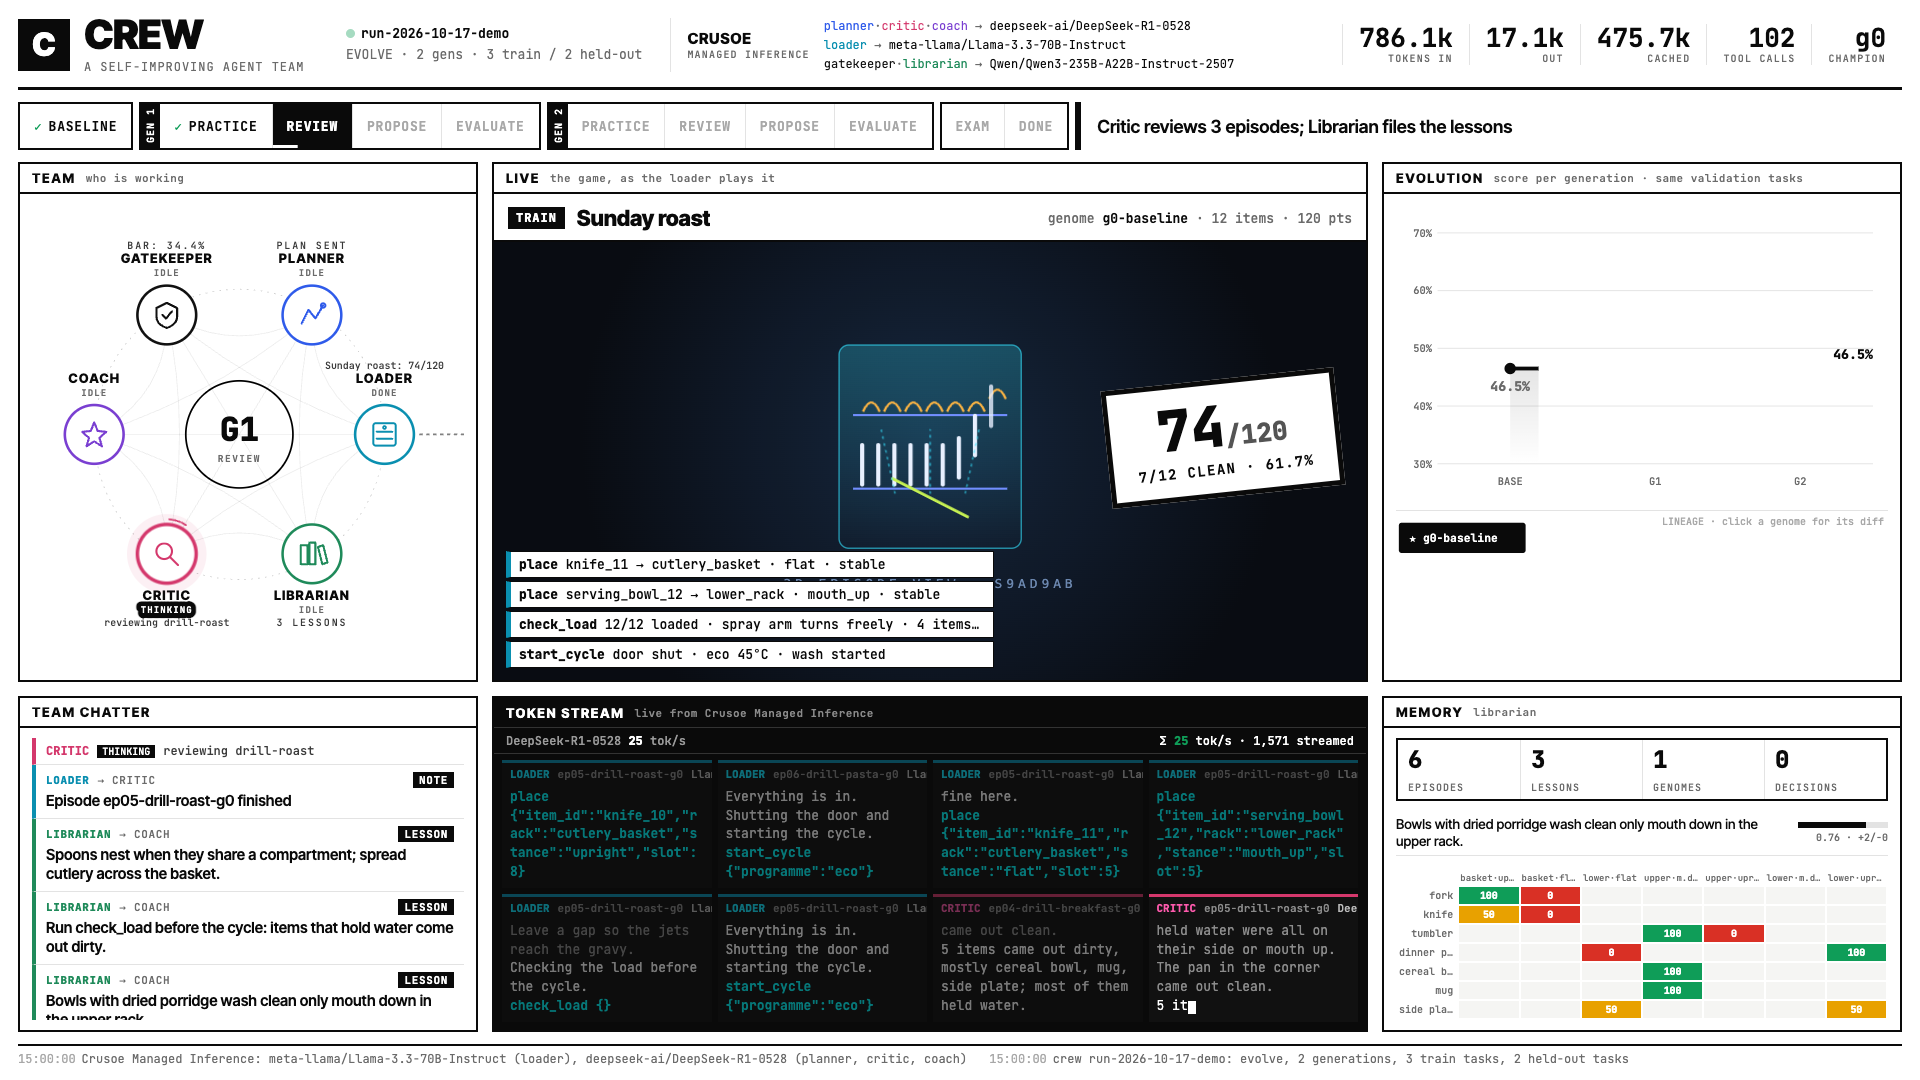
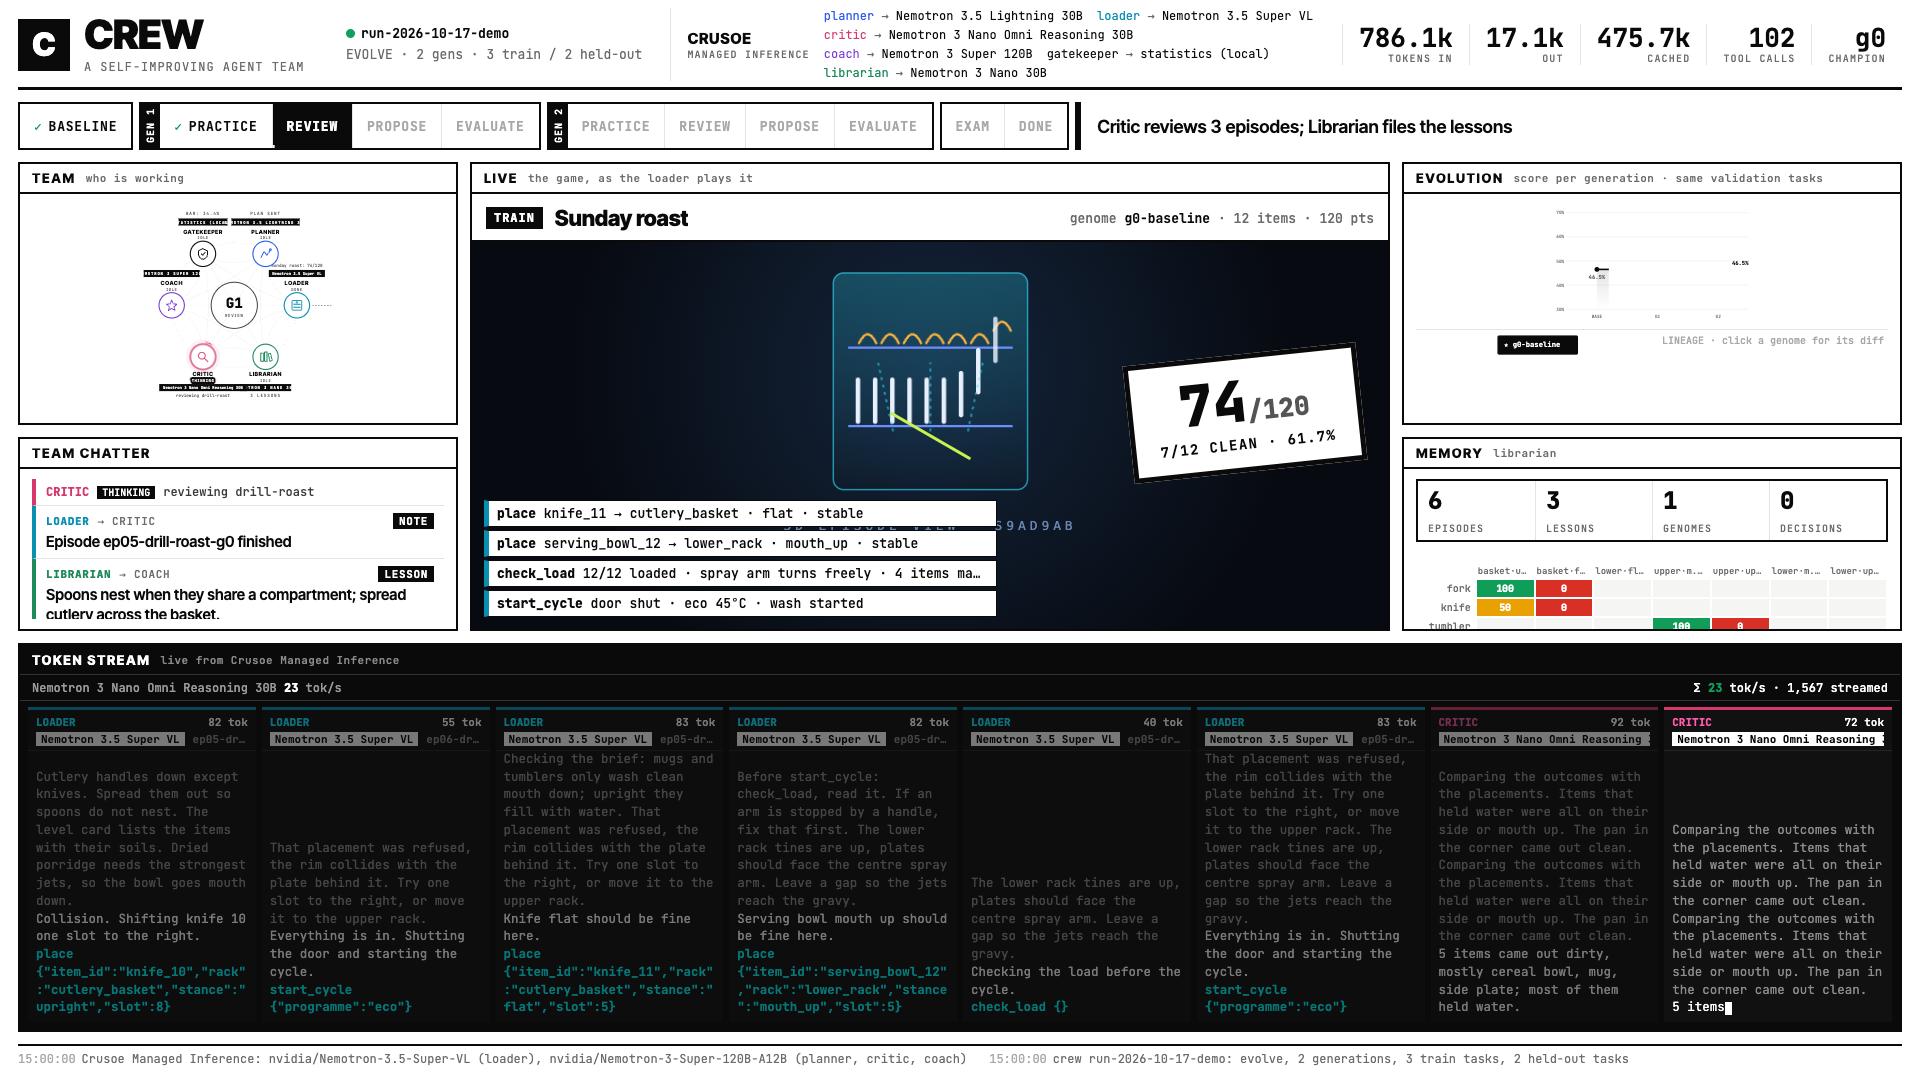
studio: full-width token row, Nemotron model chips, team list, cropped game heading, 1512x805 layout

diff --git a/studio/src/style.css b/studio/src/style.css
@@ -63,18 +63,32 @@ html, body { margin: 0; height: 100%; background: var(--paper); color: var(--ink
 .pdetail { flex: 1; display: flex; align-items: center; padding: 0 16px; font: 600 18px var(--sans); min-width: 0; overflow: hidden; white-space: nowrap; text-overflow: ellipsis; border-left: 6px solid var(--ink); }
 
 /* main grid */
-main { display: grid; grid-template-columns: 460px minmax(0, 1fr) 520px; grid-template-rows: 520px minmax(0, 1fr); gap: 14px; min-height: 0; }
+main { display: grid; grid-template-columns: 440px minmax(0, 1fr) 500px; grid-template-rows: minmax(0, 1.35fr) minmax(0, 1fr) 36vh; gap: 12px; min-height: 0; }
 #team { grid-column: 1; grid-row: 1; }
 #chatter { grid-column: 1; grid-row: 2; }
-#live { grid-column: 2; grid-row: 1; }
-#tokens { grid-column: 2; grid-row: 2; }
+#live { grid-column: 2; grid-row: 1 / 3; }
 #evo { grid-column: 3; grid-row: 1; }
 #memory { grid-column: 3; grid-row: 2; }
+#tokens { grid-column: 1 / -1; grid-row: 3; }
 .panel { position: relative; background: var(--paper); border: 2px solid var(--ink); padding: 40px 12px 10px; min-height: 0; overflow: hidden; }
 .panel h2 { position: absolute; top: 0; left: 0; right: 0; height: 30px; margin: 0; padding: 0 12px; display: flex; align-items: center; gap: 10px; font: 800 13px var(--sans); letter-spacing: .12em; text-transform: uppercase; border-bottom: 2px solid var(--ink); white-space: nowrap; overflow: hidden; }
 .panel h2 em { font-style: normal; color: var(--dim); font: 500 11px var(--mono); letter-spacing: .04em; text-transform: none; }
 
-/* graph */
+/* graph (tall screens) or list (short screens) */
+#team { display: flex; flex-direction: column; }
+.teamlist { display: flex; flex-direction: column; overflow: hidden; flex: 1; min-height: 0; justify-content: space-evenly; }
+#graph { display: none !important; }
+.tr { flex: none; display: grid; grid-template-columns: 104px 74px minmax(0, max-content) minmax(0, 1fr); gap: 10px; align-items: center; padding: 6px 8px; font-size: 13px !important; border-left: 4px solid var(--c); border-bottom: 1px solid var(--hair); font: 500 11px var(--mono); }
+.tr b { color: var(--c); text-transform: uppercase; font-weight: 800; }
+.tr .st { color: var(--dim); text-transform: uppercase; font-size: 10px; }
+.tr.s-thinking .st, .tr.s-acting .st { background: var(--ink); color: #fff; padding: 0 4px; justify-self: start; }
+.tr i { font-style: normal; background: var(--ink); color: #fff; padding: 1px 6px; font-weight: 700; white-space: nowrap; overflow: hidden; text-overflow: ellipsis; }
+.tr.s-thinking, .tr.s-acting { background: color-mix(in srgb, var(--c) 8%, #fff); }
+.tr.s-thinking b::after, .tr.s-acting b::after { content: ' ●'; animation: blink 1s infinite; }
+.tr em { font-style: normal; color: var(--ink2); white-space: nowrap; overflow: hidden; text-overflow: ellipsis; }
+#evo { display: flex; flex-direction: column; }
+#evo #chart { flex: 1 1 0; min-height: 0; height: 0; }
+#evo #lineage { flex: none; }
 #graph { width: 100%; height: 100%; display: block; }
 .edge { stroke: #000; stroke-opacity: .07; stroke-width: 1; fill: none; }
 .edge.hot { stroke-opacity: 1; stroke-width: 2.5; }
@@ -92,6 +106,8 @@ main { display: grid; grid-template-columns: 460px minmax(0, 1fr) 520px; grid-te
 .node-status { font: 600 10.5px var(--mono); fill: var(--dim); text-transform: uppercase; letter-spacing: .12em; }
 .node.thinking .node-status, .node.acting .node-status { fill: var(--paper); paint-order: stroke; stroke: var(--ink); stroke-width: 12px; stroke-linejoin: round; }
 .node-label { font: 500 11.5px var(--mono); fill: var(--ink2); }
+.model-chip { fill: var(--ink); }
+.node-model { font: 700 10.5px var(--mono); fill: #fff; }
 .core-gen { font: 800 38px var(--mono); fill: var(--ink); }
 .core-sub { font: 600 11px var(--mono); fill: var(--dim); letter-spacing: .16em; text-transform: uppercase; }
 
@@ -161,19 +177,17 @@ main { display: grid; grid-template-columns: 460px minmax(0, 1fr) 520px; grid-te
 .meter .tot { margin-left: auto; color: #fff; }
 .meter .tot b { color: var(--good); }
 .waterfall { position: relative; height: 100%; }
-.lanes { display: grid; gap: 6px; height: 100%; grid-template-columns: 1fr; grid-auto-rows: minmax(0, 1fr); }
-.lanes[data-n='2'] { grid-template-columns: 1fr 1fr; }
-.lanes[data-n='4'] { grid-template-columns: 1fr 1fr; grid-template-rows: 1fr 1fr; }
-.lanes[data-n='6'] { grid-template-columns: 1fr 1fr 1fr; grid-template-rows: 1fr 1fr; }
-.lanes[data-n='8'] { grid-template-columns: repeat(4, 1fr); grid-template-rows: 1fr 1fr; }
+.lanes { display: grid; gap: 6px; height: 100%; grid-template-columns: 1fr; grid-template-rows: minmax(0, 1fr); }
 .lane { display: flex; flex-direction: column; min-height: 0; min-width: 0; border-top: 3px solid var(--rc); background: #111; transition: opacity .6s; }
 .lane.done { opacity: .45; }
-.lh { display: flex; gap: 8px; align-items: baseline; padding: 4px 8px; font: 500 11px var(--mono); color: #8a8a8a; white-space: nowrap; overflow: hidden; flex: none; }
+.lh { padding: 5px 8px 4px; font: 500 11px var(--mono); color: #8a8a8a; white-space: nowrap; overflow: hidden; flex: none; border-bottom: 1px solid #262626; }
+.lh div { display: flex; gap: 8px; align-items: baseline; overflow: hidden; }
+.lh div + div { margin-top: 3px; }
 .lh b { color: var(--rc); text-transform: uppercase; font-weight: 800; filter: brightness(1.6); }
-.lh i { font-style: normal; color: #bbb; }
+.lh i { font-style: normal; color: #000; background: #fff; padding: 0 5px; font-weight: 700; }
+.lh span { overflow: hidden; text-overflow: ellipsis; }
 .lh em { font-style: normal; margin-left: auto; color: #fff; }
-.lb { flex: 1; min-height: 0; overflow: hidden; display: flex; flex-direction: column; justify-content: flex-end; padding: 0 8px 6px; font: 13px/1.45 var(--mono); white-space: pre-wrap; word-break: break-word; }
-.lanes[data-n='1'] .lb, .lanes[data-n='2'] .lb { font-size: 15px; }
+.lb { flex: 1; min-height: 0; overflow: hidden; display: flex; flex-direction: column; justify-content: flex-end; padding: 4px 8px 6px; font: 12.5px/1.42 var(--mono); white-space: pre-wrap; word-break: break-word; }
 .c-reasoning { color: #8c8c8c; }
 .c-content { color: #ffffff; }
 .c-tool_args { color: var(--rc); filter: brightness(1.7) saturate(1.2); font-weight: 700; }
@@ -189,7 +203,7 @@ main { display: grid; grid-template-columns: 460px minmax(0, 1fr) 520px; grid-te
 .cand { stroke-width: 3; }
 .cand-t { font: 600 12.5px var(--sans); fill: var(--ink); }
 .delta-t { font: 800 14px var(--mono); }
-#lineage { margin-top: 6px; height: 138px; position: relative; border-top: 1px solid var(--hair); }
+#lineage { margin-top: 6px; height: 84px; position: relative; border-top: 1px solid var(--hair); }
 #lineage svg { width: 100%; height: 100%; }
 .gnode { cursor: pointer; }
 .gnode rect { fill: #fff; stroke-width: 2; }
@@ -265,8 +279,30 @@ main { display: grid; grid-template-columns: 460px minmax(0, 1fr) 520px; grid-te
 @keyframes slidein { from { opacity: 0; transform: translateY(6px); } }
 @keyframes stamp { from { opacity: 0; transform: translateY(-50%) rotate(-6deg) scale(2.2); } }
 
+@media (max-height: 900px) {
+  #app { grid-template-rows: 56px 34px 1fr 0; gap: 8px; padding: 8px 12px 6px; }
+  #console { display: none; }
+  #top { padding-bottom: 8px; border-bottom-width: 2px; }
+  .logo { width: 40px; height: 40px; font-size: 24px; }
+  .title { font-size: 28px; }
+  .counter .v { font-size: 18px; }
+  .pdetail { font-size: 14px; }
+  main { gap: 8px; grid-template-rows: minmax(0, 1.25fr) minmax(0, 1fr) 36vh; }
+  .panel { padding-top: 32px; }
+  .panel h2 { height: 24px; font-size: 11px; }
+  #stage { top: 26px; }
+  .term { padding-top: 50px; }
+  .meter { top: 24px; height: 22px; font-size: 11px; }
+  .ov-top { height: 36px; } .ov-top .task { font-size: 17px; }
+  .msg { padding: 4px 8px; } .msg details summary { font-size: 13px; }
+  .lesson { padding: 3px 0; }
+  .mcount b { font-size: 18px; }
+  #lineage { height: 64px; }
+  .tr { grid-template-columns: 88px 62px minmax(0, max-content) minmax(0, 1fr); padding: 3px 6px; font-size: 11px !important; gap: 6px; }
+  .lin-hint { display: none; }
+}
 @media (max-width: 1600px) {
-  main { grid-template-columns: 390px minmax(0, 1fr) 440px; grid-template-rows: 440px minmax(0, 1fr); }
+  main { grid-template-columns: 340px minmax(0, 1fr) 400px; }
   .counter { padding: 0 10px; } .counter .v { font-size: 20px; }
   .step { padding: 0 8px; font-size: 11px; }
   .title { font-size: 30px; } .brand { min-width: 220px; }
@@ -278,5 +314,5 @@ main { display: grid; grid-template-columns: 460px minmax(0, 1fr) 520px; grid-te
   .heat td { height: 12px; font-size: 9px; }
   .lesson { font-size: 12px; }
   .exam .big { font-size: 150px; }
-  .lanes[data-n='8'] .lb { font-size: 11px; }
+  .lb { font-size: 11.5px; }
 }

diff --git a/studio/src/main.ts b/studio/src/main.ts
@@ -5,6 +5,7 @@ import { diffGenomes, wordDiff } from './diff.ts';
 import { championId, evolution, initialState, lineage, liveEpisodes, reduce, ROLE_LIST, type EpisodeView, type MessageView, type StudioState } from './state.ts';
 import { startSource } from './source.ts';
 import { tokenPanel } from './tokens.ts';
+import { modelName } from './models.ts';
 
 const $ = <T extends Element = HTMLElement>(sel: string): T => document.querySelector(sel) as T;
 const esc = (s: string): string => s.replace(/[&<>"]/g, (c) => ({ '&': '&amp;', '<': '&lt;', '>': '&gt;', '"': '&quot;' })[c]!);
@@ -65,7 +66,7 @@ function renderHeader(s: StudioState): void {
     byModel.set(m, [...(byModel.get(m) ?? []), r]);
   }
   $('#inference').innerHTML = `<div class="crusoe">CRUSOE<small>MANAGED INFERENCE</small></div><div class="models">${[...byModel]
-    .map(([m, rs]) => `<span>${rs.map((r) => `<i style="color:${COLOR[r]}">${r}</i>`).join('<i>·</i>')} <i>→</i> ${esc(m)}</span>`)
+    .map(([m, rs]) => `<span>${rs.map((r) => `<i style="color:${COLOR[r]}">${r}</i>`).join('<i>·</i>')} <i>→</i> ${esc(modelName(m))}</span>`)
     .join('')}</div>`;
   const t = s.tokens;
   const champ = championId(s);
@@ -152,14 +153,17 @@ function buildGraph(): void {
     const g = document.createElementNS(SVG, 'g');
     g.setAttribute('class', 'node idle');
     const below = y > CY + 10;
-    const ly = below ? 54 : -60;
+    const ly = below ? 52 : -54;
+    const my = below ? y + 84 : y - 84;
     g.innerHTML = `<circle class="halo" cx="${x}" cy="${y}" r="46" fill="${HEX[r]}" opacity="0"/>
       <circle class="node-ring" cx="${x}" cy="${y}" r="34" stroke="${HEX[r]}"/>
       <circle class="spinner" cx="${x}" cy="${y}" r="40" fill="none" stroke="${HEX[r]}" stroke-width="2" stroke-dasharray="20 230" stroke-linecap="round"/>
       ${icon(r, x, y)}
       <text class="node-name" x="${x}" y="${y + ly}" text-anchor="middle">${r}</text>
       <text class="node-status" x="${x}" y="${y + ly + 15}" text-anchor="middle">idle</text>
-      <text class="node-label" x="${x}" y="${y + ly + (below ? 30 : -16)}" text-anchor="middle"></text>`;
+      <text class="node-label" x="${x}" y="${below ? y + 108 : y - 104}" text-anchor="middle"></text>
+      <rect class="model-chip" x="${x}" y="${my - 11}" width="0" height="19" data-cx="${x}"/>
+      <text class="node-model" x="${x}" y="${my + 3}" text-anchor="middle"></text>`;
     ng.appendChild(g);
     nodeEls.set(r, g);
   }
@@ -188,7 +192,23 @@ function renderGraph(s: StudioState): void {
     texts[1]!.textContent = a.status;
     const lbl = a.label.length > 34 ? `${a.label.slice(0, 33)}…` : a.label;
     texts[2]!.textContent = lbl;
+    // The model under the role (from run_started), as a black chip.
+    const mn = modelName(s.run?.models[r]);
+    if (texts[3]!.textContent !== mn) {
+      texts[3]!.textContent = mn;
+      const w = mn ? mn.length * 6.5 + 14 : 0;
+      const rect = g.querySelector<SVGRectElement>('.model-chip')!;
+      rect.setAttribute('width', String(w));
+      rect.setAttribute('x', String(Number(rect.dataset['cx']) - w / 2));
+    }
   }
+  // The compact team list (shown instead of the ring on short screens).
+  const tl = ROLE_LIST.map((r) => {
+    const a = s.agents[r];
+    return `<div class="tr s-${a.status}" style="--c:${COLOR[r]}"><b>${r}</b><span class="st">${a.status}</span><i>${esc(modelName(s.run?.models[r]))}</i><em>${esc(a.label)}</em></div>`;
+  }).join('');
+  const tle = $('#teamlist');
+  if (tle.innerHTML !== tl) tle.innerHTML = tl;
   const ph = s.phase;
   $('#core-gen').textContent = ph ? (ph.phase === 'exam' || ph.phase === 'done' ? (ph.phase === 'exam' ? 'EXAM' : 'DONE') : `G${ph.generation}`) : 'G0';
   $('#core-sub').textContent = ph ? ph.phase : 'waiting';
@@ -312,8 +332,10 @@ function renderLive(s: StudioState): void {
     c.el.className = `card ${big ? 'big' : 'small'} ${!big && e.finishedAt ? 'leaving' : ''} ${loading ? 'loading' : ''}`;
     // The page renders at the big size (below the card's header strip); thumbnails are scaled down copies.
     const scale = rect.w / W;
-    const HDR = 46;
-    Object.assign(c.frame.style, { width: `${W}px`, height: `${bigH - HDR}px`, top: big ? `${HDR}px` : '0px', transform: `scale(${scale})` });
+    const HDR = innerHeight <= 900 ? 36 : 46;
+    // The game page draws its own heading at the top; the card's strip shows the title, so that band is cropped off.
+    const CROP = 80;
+    Object.assign(c.frame.style, { width: `${W}px`, height: `${bigH - HDR + CROP}px`, top: big ? `${HDR - CROP}px` : `${-CROP * scale}px`, transform: `scale(${scale})` });
     const sig = `${big}|${e.stream.length}|${e.finishedAt}|${e.wash}`;
     if (sig !== c.sig) {
       c.sig = sig;
@@ -379,10 +401,14 @@ const short = (a: unknown): string => {
 let evoSig = '';
 function renderEvolution(s: StudioState): void {
   const pts = evolution(s);
-  const sig = JSON.stringify(pts) + Object.keys(s.genomes).length + Object.values(s.genomes).map((g) => g.status).join();
+  const cb = $('#chart').getBoundingClientRect();
+  const sig = `${Math.round(cb.width)}x${Math.round(cb.height)}` + JSON.stringify(pts) + Object.keys(s.genomes).length + Object.values(s.genomes).map((g) => g.status).join();
   if (sig === evoSig) return;
   evoSig = sig;
-  const W = 520, H = 300, L = 44, Rr = 16, T = 22, B = 34;
+  // Drawn at the element's own pixel size, so the type stays readable however small the panel is.
+  const box = $('#chart').getBoundingClientRect();
+  const W = Math.max(320, Math.round(box.width)), H = Math.max(140, Math.round(box.height)), L = 44, Rr = 16, T = 22, B = 30;
+  $('#chart').setAttribute('viewBox', `0 0 ${W} ${H}`);
   const vals = pts.flatMap((p) => [p.champion, p.candidate ?? p.champion]);
   const lo = Math.max(0, Math.floor((Math.min(...vals, 0.5) - 0.1) * 10) / 10);
   const hi = Math.min(1, Math.ceil((Math.max(...vals, 0.6) + 0.08) * 10) / 10);

diff --git a/studio/scripts/fake-events.ts b/studio/scripts/fake-events.ts
@@ -78,8 +78,8 @@ const RACK_OF: Record<string, readonly [string, string, string]> = {
   ladle: ['cutlery_basket', 'upright', 'flat'],
 };
 
-const MODEL_LOADER = 'meta-llama/Llama-3.3-70B-Instruct';
-const MODEL_THINK = 'deepseek-ai/DeepSeek-R1-0528';
+const MODEL_LOADER = 'nvidia/Nemotron-3.5-Super-VL';
+const MODEL_THINK = 'nvidia/Nemotron-3-Super-120B-A12B';
 const MODEL_FAST = 'Qwen/Qwen3-235B-A22B-Instruct-2507';
 
 function rng(seed: number): () => number {
@@ -190,6 +190,7 @@ export function fakeRun(opts: FakeRunOptions = {}): CrewEvent[] {
     }
     if (genome.team.useMemoryBrief) {
       status(t, 'librarian', 'acting', `brief for ${task.title}`, key);
+      emit(t + 0.55, { type: 'model_turn', episodeKey: key, role: 'librarian', text: `Brief for ${task.title}: the lessons that match its kinds and soils.`, toolCalls: [], tokensIn: 1800, tokensOut: 220, ms: 1500 });
       msg(t + 0.6, 'librarian', 'loader', 'brief', `Memory brief: ${task.title}`, briefText(lessons, task));
       status(t + 0.9, 'librarian', 'idle', 'brief sent');
       t += 1;
@@ -331,7 +332,14 @@ export function fakeRun(opts: FakeRunOptions = {}): CrewEvent[] {
   emit(0, {
     type: 'run_started',
     mode: 'evolve',
-    models: { planner: MODEL_THINK, loader: MODEL_LOADER, critic: MODEL_THINK, coach: MODEL_THINK, gatekeeper: MODEL_FAST, librarian: MODEL_FAST },
+    models: {
+      planner: 'nvidia/Nemotron-3.5-Lightning-30B',
+      loader: 'nvidia/Nemotron-3.5-Super-VL',
+      critic: 'nvidia/Nemotron-3-Nano-Omni-Reasoning-30B',
+      coach: 'nvidia/Nemotron-3-Super-120B-A12B',
+      gatekeeper: 'statistics (local)',
+      librarian: 'nvidia/Nemotron-3-Nano-30B-A3B',
+    },
     trainTasks: TRAIN.map((t) => ({ id: t.id, title: t.title, items: t.kinds.length })),
     testTasks: TEST.map((t) => ({ id: t.id, title: t.title, items: t.kinds.length })),
     generations: 2,
@@ -539,6 +547,7 @@ const REASONING: Record<string, readonly string[]> = {
   ],
   planner: ['Group by rack: heavy pans and plates below, bowls and glasses on top, cutlery last. Watch the tall items against the upper arm. '],
   critic: ['Comparing the outcomes with the placements. Items that held water were all on their side or mouth up. The pan in the corner came out clean. '],
+  librarian: ['Matching lessons to the kinds and soils on this level card. Mugs: mouth down, high confidence. Plates: face the centre arm. ', 'Placement statistics for bowls favour the upper rack mouth down; include them, drop the stale glassware lesson. '],
   coach: ['Looking across the decisions: the last accepted change added structure before play. The failures cluster on preflight; the loader starts washes with a blocked arm. A mandatory check should help without costing much. '],
 };
 

diff --git a/studio/src/tokens.ts b/studio/src/tokens.ts
@@ -8,6 +8,7 @@
  */
 
 import type { CrewEvent, Role } from '@spotless/crew/contracts';
+import { modelName } from './models.ts';
 
 type StreamEv = Extract<CrewEvent, { type: 'stream' }>;
 type Channel = StreamEv['channel'];
@@ -126,7 +127,7 @@ export function tokenPanel(root: HTMLElement, meter: HTMLElement): TokenPanel {
   }
 
   const esc = (s: string): string => s.replace(/[&<>]/g, (c) => ({ '&': '&amp;', '<': '&lt;', '>': '&gt;' })[c]!);
-  const short = (m: string): string => m.split('/').pop()!.replace(/-Instruct.*$/, '');
+  const short = (m: string): string => modelName(m);
 
   let lastMeter = 0;
   let prev = performance.now();
@@ -136,7 +137,7 @@ export function tokenPanel(root: HTMLElement, meter: HTMLElement): TokenPanel {
     if (order.length !== layoutN) {
       layoutN = order.length;
       const n = order.length;
-      grid.dataset['n'] = String(n <= 1 ? 1 : n <= 2 ? 2 : n <= 4 ? 4 : n <= 6 ? 6 : 8);
+      grid.style.gridTemplateColumns = `repeat(${Math.max(1, n)}, minmax(0, 1fr))`;
       empty.style.display = n ? 'none' : '';
     }
     for (const l of order) {
@@ -145,7 +146,7 @@ export function tokenPanel(root: HTMLElement, meter: HTMLElement): TokenPanel {
       l.dirty = false;
       const live = !l.done || l.pending.length > 0;
       l.el.classList.toggle('done', !live);
-      l.head.innerHTML = `<b>${l.role}</b><span>${esc(l.episodeKey)}</span><i>${esc(short(l.model))}</i><em>${Math.round(l.chars / CPT)} tok</em>`;
+      l.head.innerHTML = `<div><b>${l.role}</b><em>${Math.round(l.chars / CPT)} tok</em></div><div><i>${esc(short(l.model))}</i><span>${esc(l.episodeKey.replace(/^(train|eval|exam)-/, ''))}</span></div>`;
       l.body.innerHTML = `<div>${l.segs.map((s) => `<span class="c-${s.ch}">${esc(s.text)}</span>`).join('')}${live ? '<span class="caret"></span>' : ''}</div>`;
     }
     if (now - lastMeter > 250) {

diff --git a/studio/src/models.ts b/studio/src/models.ts
@@ -1,0 +1,12 @@
+/**
+ * Compact model names for the screen: `nvidia/Nemotron-3-Super-120B-A12B-FP8` → `Nemotron 3 Super 120B`.
+ * Drops the organisation, the active-parameter tag (`A12B`), precision and packaging suffixes.
+ */
+export function modelName(id: string | undefined | null): string {
+  if (!id) return '';
+  let s = id.split('/').pop() ?? id;
+  s = s.replace(/^NVIDIA-/i, '');
+  s = s.replace(/[-_](A\d+(\.\d+)?B|FP8|FP4|NVFP4|BF16|Instruct|Chat|\d{4})(?=$|[-_])/gi, '');
+  s = s.replace(/[-_](A\d+(\.\d+)?B|FP8|FP4|NVFP4|BF16|Instruct|Chat)(?=$|[-_])/gi, '');
+  return s.replace(/[-_]+/g, ' ').trim();
+}

diff --git a/studio/scripts/.live-tmp.ts b/studio/scripts/.live-tmp.ts
@@ -1,0 +1,8 @@
+import { launch } from 'puppeteer-core';
+const [w, h] = process.argv[3]!.split('x').map(Number);
+const b = await launch({ executablePath: '/Applications/Google Chrome.app/Contents/MacOS/Google Chrome', headless: true, args: [`--window-size=${w},${h}`, '--mute-audio'], defaultViewport: { width: w!, height: h! } });
+const p = await b.newPage();
+await p.goto(process.argv[4] ?? 'http://127.0.0.1:8790/', { waitUntil: 'domcontentloaded' });
+await new Promise((r) => setTimeout(r, 10000));
+await p.screenshot({ path: process.argv[2] as `${string}.png` });
+await b.close();

diff --git a/studio/index.html b/studio/index.html
@@ -27,7 +27,8 @@
       <main>
         <section id="team" class="panel">
           <h2>Team <em>who is working</em></h2>
-          <svg id="graph" viewBox="0 0 500 470"></svg>
+          <svg id="graph" viewBox="0 -40 500 560"></svg>
+          <div id="teamlist" class="teamlist"></div>
         </section>
         <section id="chatter" class="panel">
           <h2>Team chatter</h2>
